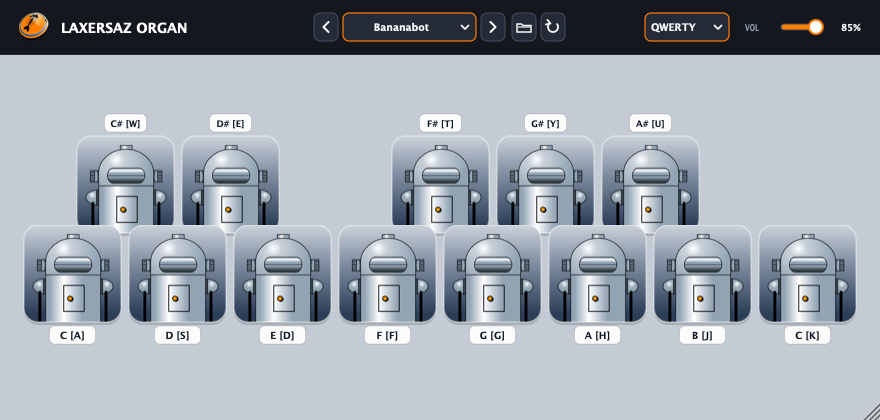
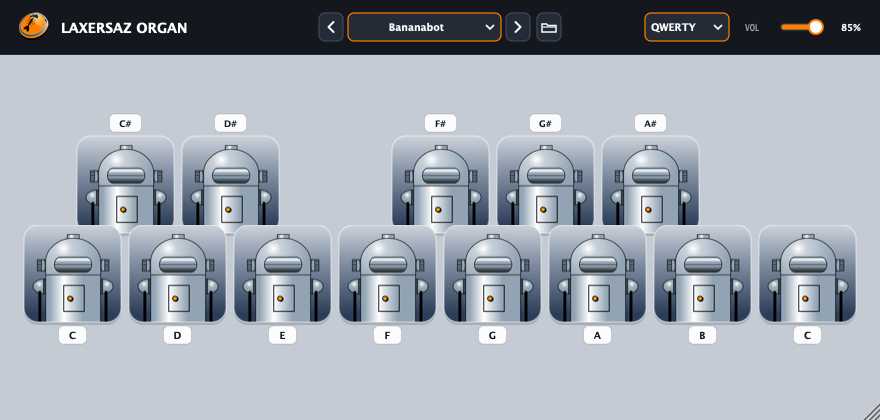
Remove reload button, preserve soundset selection on scan, and clean key labels

diff --git a/Source/PluginEditor.cpp b/Source/PluginEditor.cpp
@@ -429,13 +429,10 @@ void ToyOrganKeyView::paint (juce::Graphics& g)
     g.setColour (isPressed ? juce::Colour (0xFFFF7F00) : juce::Colour (0x60FFFFFF));
     g.drawRoundedRectangle (imgRect, 14.0f, isPressed ? 2.5f : 1.5f);
 
-    // Note badge with keyboard shortcut hint (e.g. "C [A]", "C# [W]")
-    auto shortcut = processor.getShortcutForSlot (slotIndex);
+    // Note badge (clean note name, e.g. "C", "C#")
     juce::String badgeText = slot.keyName;
-    if (shortcut.isNotEmpty())
-        badgeText << " [" << shortcut << "]";
 
-    float badgeW = isAccidental ? 42.0f : 46.0f;
+    float badgeW = isAccidental ? 32.0f : 28.0f;
     float badgeH = 18.0f;
     auto badgeRect = juce::Rectangle<float> (labelRect.getCentreX() - badgeW * 0.5f,
                                              labelRect.getCentreY() - badgeH * 0.5f,
@@ -538,16 +535,6 @@ ToyOrganAudioProcessorEditor::ToyOrganAudioProcessorEditor (ToyOrganAudioProcess
         audioProcessor.openSoundsetsFolder();
     };
     addAndMakeVisible (openFolderButton);
-
-    refreshButton.onClick = [this]()
-    {
-        audioProcessor.scanForSoundsets();
-        populateSoundsets();
-        for (auto& kv : keyViews)
-            kv->repaint();
-        repaint();
-    };
-    addAndMakeVisible (refreshButton);
 
     // 3. Header Right: Keyboard layout selector & Master Volume
     layoutComboBox.addItem ("QWERTY", 1);
@@ -687,15 +674,16 @@ void ToyOrganAudioProcessorEditor::resized()
     int rightBoundary = layoutComboBox.getX() - 10;
 
     // -------------------------------------------------------------------------
-    // 3. Header Center: Soundset Preset Bar (< [Name] > [📁] [↻])
+    // -------------------------------------------------------------------------
+    // 3. Header Center: Soundset Preset Bar (< [Name] > [📁])
     // -------------------------------------------------------------------------
     int btnW = 26;
     int btnGap = 3;
-    int fixedBarW = btnW + btnGap + btnGap + btnW + 5 + btnW + btnGap + btnW; // 4 buttons + spacing = 118px
+    int fixedBarW = btnW + btnGap + btnGap + btnW + 5 + btnW; // 3 buttons: prev, next, folder
 
     int availableForBar = rightBoundary - leftBoundary;
     int maxComboW = availableForBar - fixedBarW - 12;
-    int comboW = juce::jlimit (85, 135, maxComboW);
+    int comboW = juce::jlimit (90, 155, maxComboW);
 
     int centerBarW = fixedBarW + comboW;
     int centerStartX = (w - centerBarW) / 2;
@@ -710,7 +698,6 @@ void ToyOrganAudioProcessorEditor::resized()
     soundsetComboBox.setBounds (prevSoundsetButton.getRight() + btnGap, 12, comboW, 30);
     nextSoundsetButton.setBounds (soundsetComboBox.getRight() + btnGap, 12, btnW, 30);
     openFolderButton.setBounds (nextSoundsetButton.getRight() + 5, 12, btnW, 30);
-    refreshButton.setBounds (openFolderButton.getRight() + btnGap, 12, btnW, 30);
 
     // -------------------------------------------------------------------------
     // 4. Lower Area: Two Rows of Mascot Piano Keys
@@ -832,6 +819,13 @@ bool ToyOrganAudioProcessorEditor::keyStateChanged (bool isKeyDown)
     juce::ignoreUnused (isKeyDown);
     updateComputerKeyboardNotes();
     return true;
+}
+
+void ToyOrganAudioProcessorEditor::focusGained (FocusChangeType cause)
+{
+    juce::ignoreUnused (cause);
+    audioProcessor.scanForSoundsets();
+    populateSoundsets();
 }
 
 void ToyOrganAudioProcessorEditor::focusLost (FocusChangeType)

diff --git a/Source/PluginProcessor.cpp b/Source/PluginProcessor.cpp
@@ -551,6 +551,10 @@ void ToyOrganAudioProcessor::openSoundsetsFolder()
 
 void ToyOrganAudioProcessor::scanForSoundsets()
 {
+    juce::String previousSoundsetName = currentSoundset.name;
+    if (previousSoundsetName.isEmpty() && currentSoundsetIndex >= 0 && currentSoundsetIndex < (int) detectedSoundsetFolders.size())
+        previousSoundsetName = detectedSoundsetFolders[(size_t) currentSoundsetIndex].getFileName();
+
     detectedSoundsetFolders.clear();
     soundsetNames.clear();
 
@@ -628,7 +632,19 @@ void ToyOrganAudioProcessor::scanForSoundsets()
     }
     else
     {
-        loadSoundsetByIndex (0);
+        int targetIndex = 0;
+        if (previousSoundsetName.isNotEmpty())
+        {
+            for (int i = 0; i < (int) detectedSoundsetFolders.size(); ++i)
+            {
+                if (detectedSoundsetFolders[(size_t) i].getFileName().equalsIgnoreCase (previousSoundsetName))
+                {
+                    targetIndex = i;
+                    break;
+                }
+            }
+        }
+        loadSoundsetByIndex (targetIndex);
     }
 }
 

diff --git a/Source/PluginEditor.h b/Source/PluginEditor.h
@@ -101,6 +101,7 @@ public:
     // Musical typing via computer keyboard
     bool keyPressed (const juce::KeyPress& key) override;
     bool keyStateChanged (bool isKeyDown) override;
+    void focusGained (FocusChangeType cause) override;
     void focusLost (FocusChangeType cause) override;
 
 private:
@@ -121,7 +122,6 @@ private:
     juce::ComboBox soundsetComboBox;
     ToyOrganIconButton nextSoundsetButton { ToyOrganIconButton::IconType::Next, "Nächstes Soundset" };
     ToyOrganIconButton openFolderButton   { ToyOrganIconButton::IconType::Folder, "Soundsets-Ordner öffnen" };
-    ToyOrganIconButton refreshButton      { ToyOrganIconButton::IconType::Reload, "Soundsets neu laden" };
 
     // Header controls - Right
     juce::ComboBox layoutComboBox;
